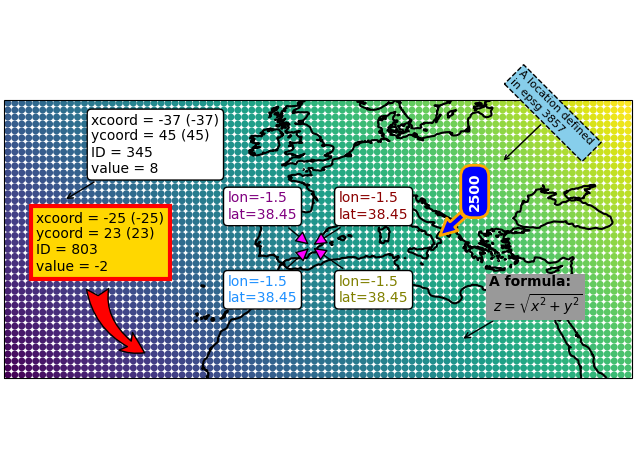
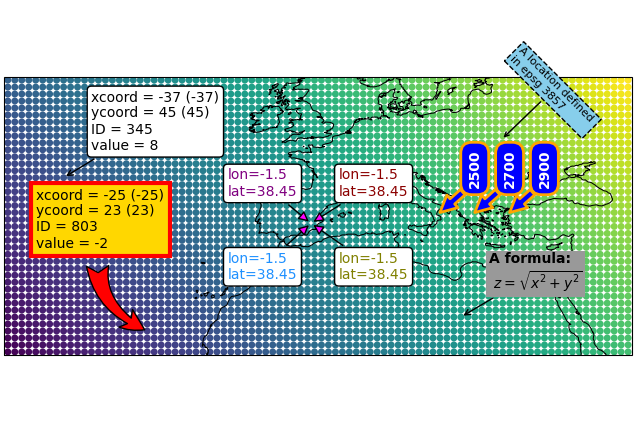
update docs

diff --git a/docs/api.rst b/docs/api.rst
@@ -768,57 +768,57 @@ Static annotations can be added to the map via ``m.add_annotation()``.
     :widths: 50 50
     :align: center
 
-    +----------------------------------------------------------------------------+---------------------------------------------+
-    | .. code-block:: python                                                     | .. image:: _static/minigifs/annotations.png |
-    |                                                                            |   :align: center                            |
-    |     from eomaps import Maps                                                |                                             |
-    |     import numpy as np                                                     |                                             |
-    |     x, y = np.mgrid[-45:45, 20:60]                                         |                                             |
-    |                                                                            |                                             |
-    |     m = Maps(crs=4326)                                                     |                                             |
-    |     m.set_data(x+y, x, y)                                                  |                                             |
-    |     m.add_feature.preset.coastline(ec="k", lw=.75)                         |                                             |
-    |     m.plot_map()                                                           |                                             |
-    |                                                                            |                                             |
-    |     # annotate any point in the dataset via the data-index                 |                                             |
-    |     m.add_annotation(ID=345)                                               |                                             |
-    |     # annotate an arbitrary position (in the plot-crs)                     |                                             |
-    |     m.add_annotation(                                                      |                                             |
-    |         xy=(20,25), text="A formula:\n $z=\sqrt{x^2+y^2}$",                |                                             |
-    |         fontweight="bold", bbox=dict(fc=".6", ec="none", pad=2))           |                                             |
-    |     # annotate coordinates defined in arbitrary crs                        |                                             |
-    |     m.add_annotation(                                                      |                                             |
-    |         xy=(2873921, 6527868), xy_crs=3857, xytext=(5,5),                  |                                             |
-    |         text="A location defined \nin epsg 3857", fontsize=8,              |                                             |
-    |         rotation=-45, bbox=dict(fc="skyblue", ec="k", ls="--", pad=2))     |                                             |
-    |                                                                            |                                             |
-    |     # functions can be used for more complex text                          |                                             |
-    |     def text(m, ID, val, pos, ind):                                        |                                             |
-    |         return f"lon={pos[0]}\nlat={pos[1]}"                               |                                             |
-    |                                                                            |                                             |
-    |     props = dict(xy=(-1.5, 38.45), text=text,                              |                                             |
-    |                  arrowprops=dict(arrowstyle="-|>", fc="fuchsia",           |                                             |
-    |                                  mutation_scale=15))                       |                                             |
-    |     m.add_annotation(**props, xytext=(20, 20), color="darkred")            |                                             |
-    |     m.add_annotation(**props, xytext=(-60, 20), color="purple")            |                                             |
-    |     m.add_annotation(**props, xytext=(-60, -40), color="dodgerblue")       |                                             |
-    |     m.add_annotation(**props, xytext=(20, -40), color="olive")             |                                             |
-    |                                                                            |                                             |
-    |     m.add_annotation(ID=2500, text=lambda ID, **kwargs: str(ID),           |                                             |
-    |                      color="w", fontweight="bold", rotation=90,            |                                             |
-    |                      arrowprops=dict(width=5, fc="b", ec="orange", lw=2),  |                                             |
-    |                      bbox=dict(boxstyle="round, rounding_size=.8, pad=.5", |                                             |
-    |                                fc="b", ec="orange", lw=2))                 |                                             |
-    |                                                                            |                                             |
-    |     m.add_annotation(ID=803, xytext=(-80,60),                              |                                             |
-    |                      bbox=dict(ec="r", fc="gold", lw=3),                   |                                             |
-    |                      arrowprops=dict(                                      |                                             |
-    |                          arrowstyle="fancy", relpos=(.48,-.2),             |                                             |
-    |                          mutation_scale=40, fc="r",                        |                                             |
-    |                          connectionstyle="angle3, angleA=90, angleB=-25")) |                                             |
-    |                                                                            |                                             |
-    +----------------------------------------------------------------------------+---------------------------------------------+
-
+    +-----------------------------------------------------------------------------------+---------------------------------------------+
+    | .. code-block:: python                                                            | .. image:: _static/minigifs/annotations.png |
+    |                                                                                   |   :align: center                            |
+    |     from eomaps import Maps                                                       |                                             |
+    |     import numpy as np                                                            |                                             |
+    |     x, y = np.mgrid[-45:45, 20:60]                                                |                                             |
+    |                                                                                   |                                             |
+    |     m = Maps(crs=4326)                                                            |                                             |
+    |     m.set_data(x+y, x, y)                                                         |                                             |
+    |     m.add_feature.preset.coastline(ec="k", lw=.75)                                |                                             |
+    |     m.plot_map()                                                                  |                                             |
+    |                                                                                   |                                             |
+    |     # annotate any point in the dataset via the data-index                        |                                             |
+    |     m.add_annotation(ID=345)                                                      |                                             |
+    |     # annotate an arbitrary position (in the plot-crs)                            |                                             |
+    |     m.add_annotation(                                                             |                                             |
+    |         xy=(20,25), text="A formula:\n $z=\sqrt{x^2+y^2}$",                       |                                             |
+    |         fontweight="bold", bbox=dict(fc=".6", ec="none", pad=2))                  |                                             |
+    |     # annotate coordinates defined in arbitrary crs                               |                                             |
+    |     m.add_annotation(                                                             |                                             |
+    |         xy=(2873921, 6527868), xy_crs=3857, xytext=(5,5),                         |                                             |
+    |         text="A location defined \nin epsg 3857", fontsize=8,                     |                                             |
+    |         rotation=-45, bbox=dict(fc="skyblue", ec="k", ls="--", pad=2))            |                                             |
+    |                                                                                   |                                             |
+    |     # functions can be used for more complex text                                 |                                             |
+    |     def text(m, ID, val, pos, ind):                                               |                                             |
+    |         return f"lon={pos[0]}\nlat={pos[1]}"                                      |                                             |
+    |                                                                                   |                                             |
+    |     props = dict(xy=(-1.5, 38.45), text=text,                                     |                                             |
+    |                  arrowprops=dict(arrowstyle="-|>", fc="fuchsia",                  |                                             |
+    |                                  mutation_scale=15))                              |                                             |
+    |                                                                                   |                                             |
+    |     m.add_annotation(**props, xytext=(20, 20), color="darkred")                   |                                             |
+    |     m.add_annotation(**props, xytext=(-60, 20), color="purple")                   |                                             |
+    |     m.add_annotation(**props, xytext=(-60, -40), color="dodgerblue")              |                                             |
+    |     m.add_annotation(**props, xytext=(20, -40), color="olive")                    |                                             |
+    |                                                                                   |                                             |
+    |     # multiple annotations can be added in one go (xy=([...], [...]) also works!) |                                             |
+    |     m.add_annotation(ID=[2500, 2700, 2900], text=lambda ID, **kwargs: str(ID),    |                                             |
+    |                      color="w", fontweight="bold", rotation=90,                   |                                             |
+    |                      arrowprops=dict(width=5, fc="b", ec="orange", lw=2),         |                                             |
+    |                      bbox=dict(boxstyle="round, rounding_size=.8, pad=.5",        |                                             |
+    |                                fc="b", ec="orange", lw=2))                        |                                             |
+    |                                                                                   |                                             |
+    |     m.add_annotation(ID=803, xytext=(-80,60),                                     |                                             |
+    |                      bbox=dict(ec="r", fc="gold", lw=3),                          |                                             |
+    |                      arrowprops=dict(                                             |                                             |
+    |                          arrowstyle="fancy", relpos=(.48,-.2),                    |                                             |
+    |                          mutation_scale=40, fc="r",                               |                                             |
+    |                          connectionstyle="angle3, angleA=90, angleB=-25"))        |                                             |
+    +-----------------------------------------------------------------------------------+---------------------------------------------+
 
 
 ▭ Rectangular areas
